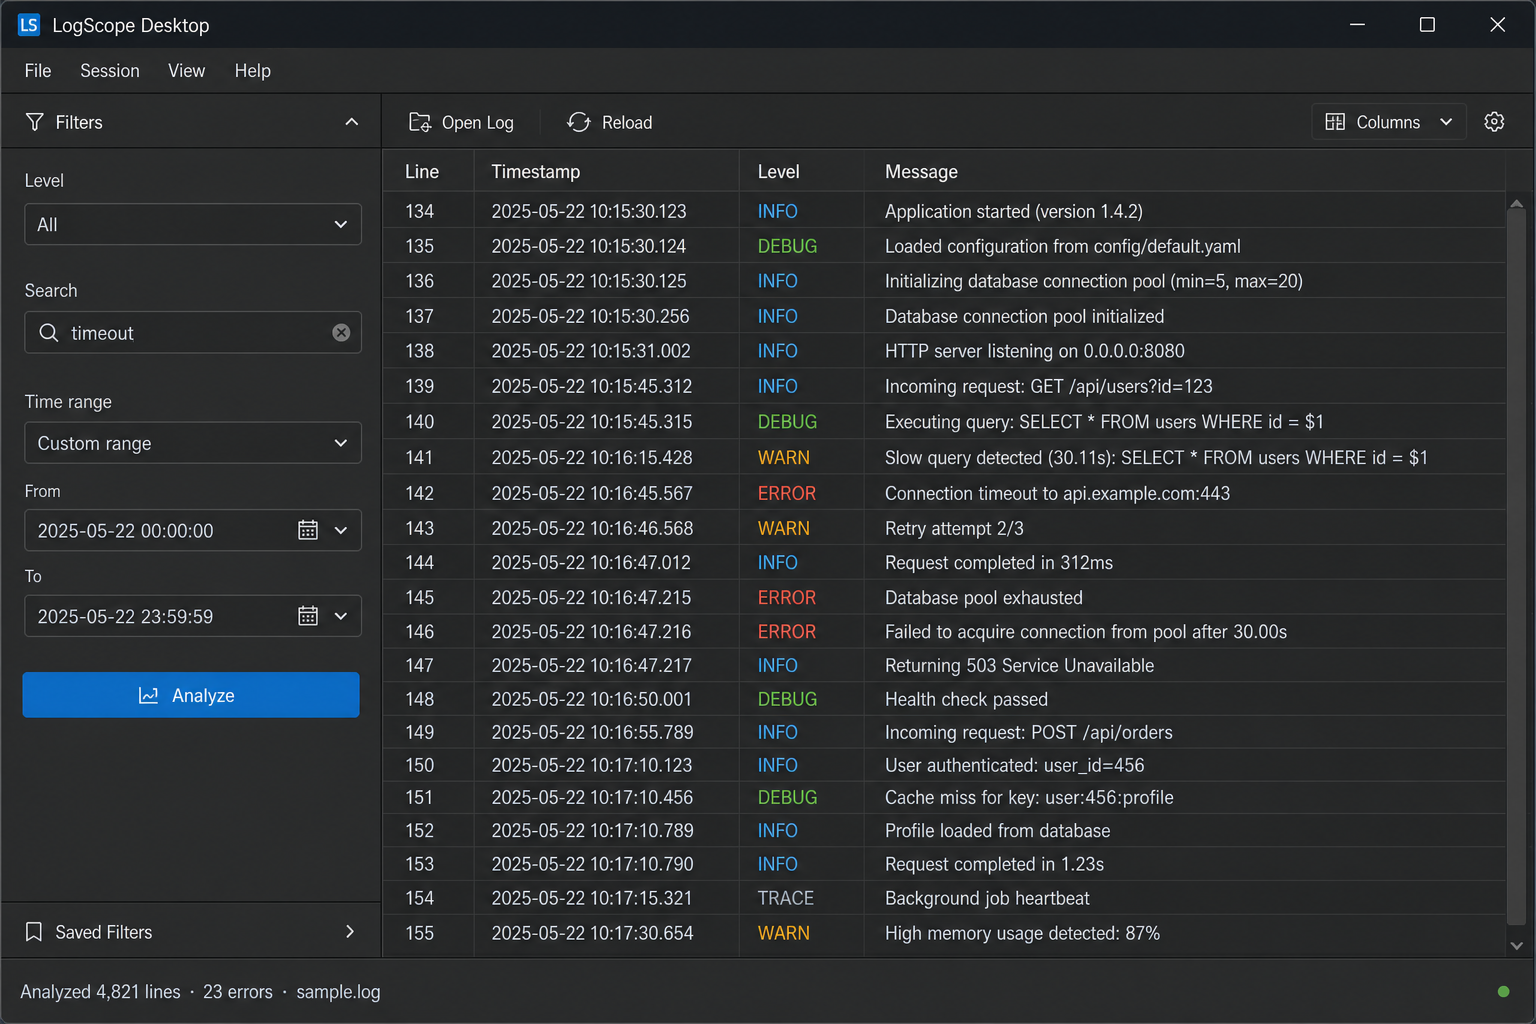
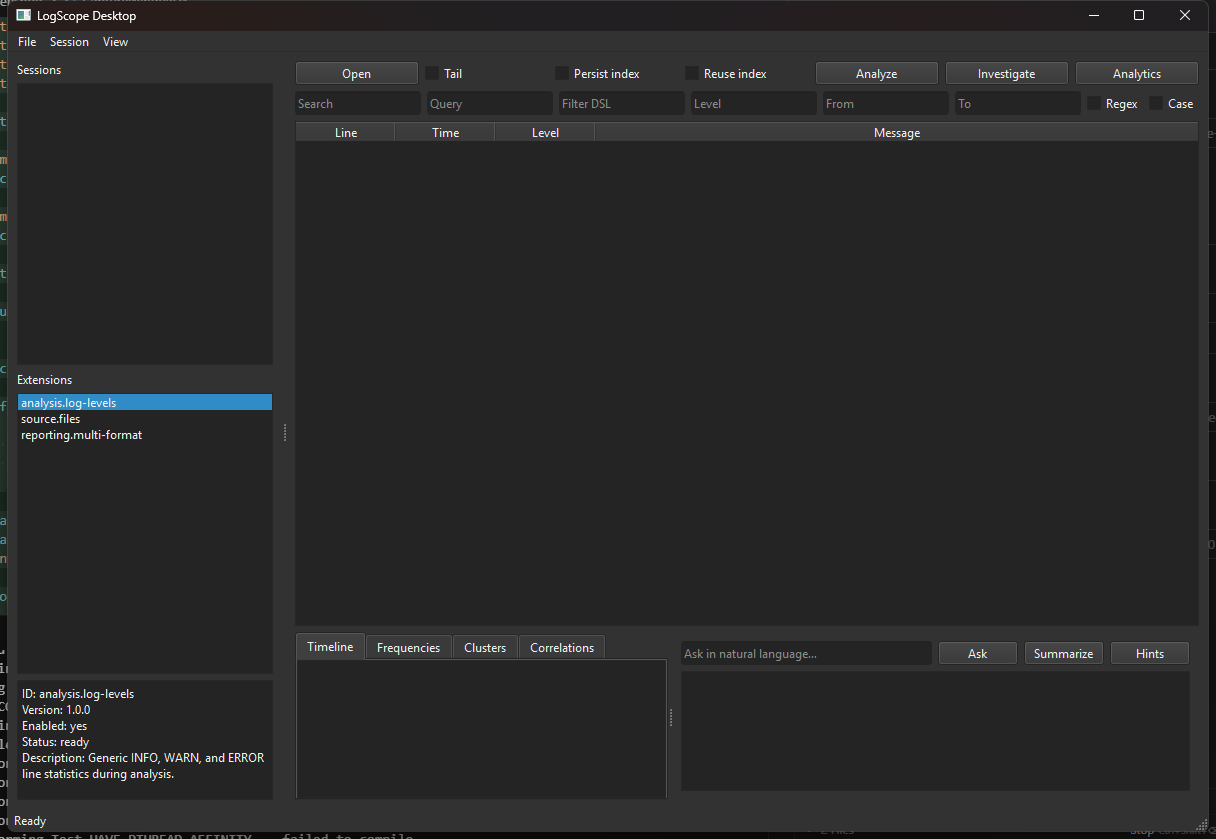
docs: replace homepage mockups with real desktop and web captures (#100)
Capture logscope-desktop v2.2.1 window and logscope-web SPA with live session; update README captions.

diff --git a/README.md b/README.md
@@ -19,15 +19,13 @@
 
 ![LogScope CLI](docs/assets/logscope-cli.png)
 
-**Desktop** — filter, investigate, analytics, and AI in one window *(representative UI)*:
+**Desktop** — real `logscope-desktop` (v2.2.1, Windows):
 
 ![LogScope Desktop](docs/assets/logscope-desktop.png)
 
-**Web** — upload, shared workspaces, investigate, and export in the browser *(representative UI)*:
+**Web** — real `logscope-web` SPA (v2.2.1, session ready):
 
 ![LogScope Web](docs/assets/logscope-web.png)
-
-> Desktop and web images are layout-accurate mockups. Replace with real captures from `logscope-desktop` and `logscope-web` when convenient (`docs/assets/`).
 
 **Current release:** [`v2.2.1`](CHANGELOG.md) — M15.4 thin auth (session TTL, upload cleanup, [securing guide](docs/handbook/SECURING_LOGSCOPE_WEB.md)). [Roadmap](docs/ROADMAP.md) · [Changelog](CHANGELOG.md) · [Downloads](https://github.com/AntonyCyriac/logscope/releases/latest)
 
